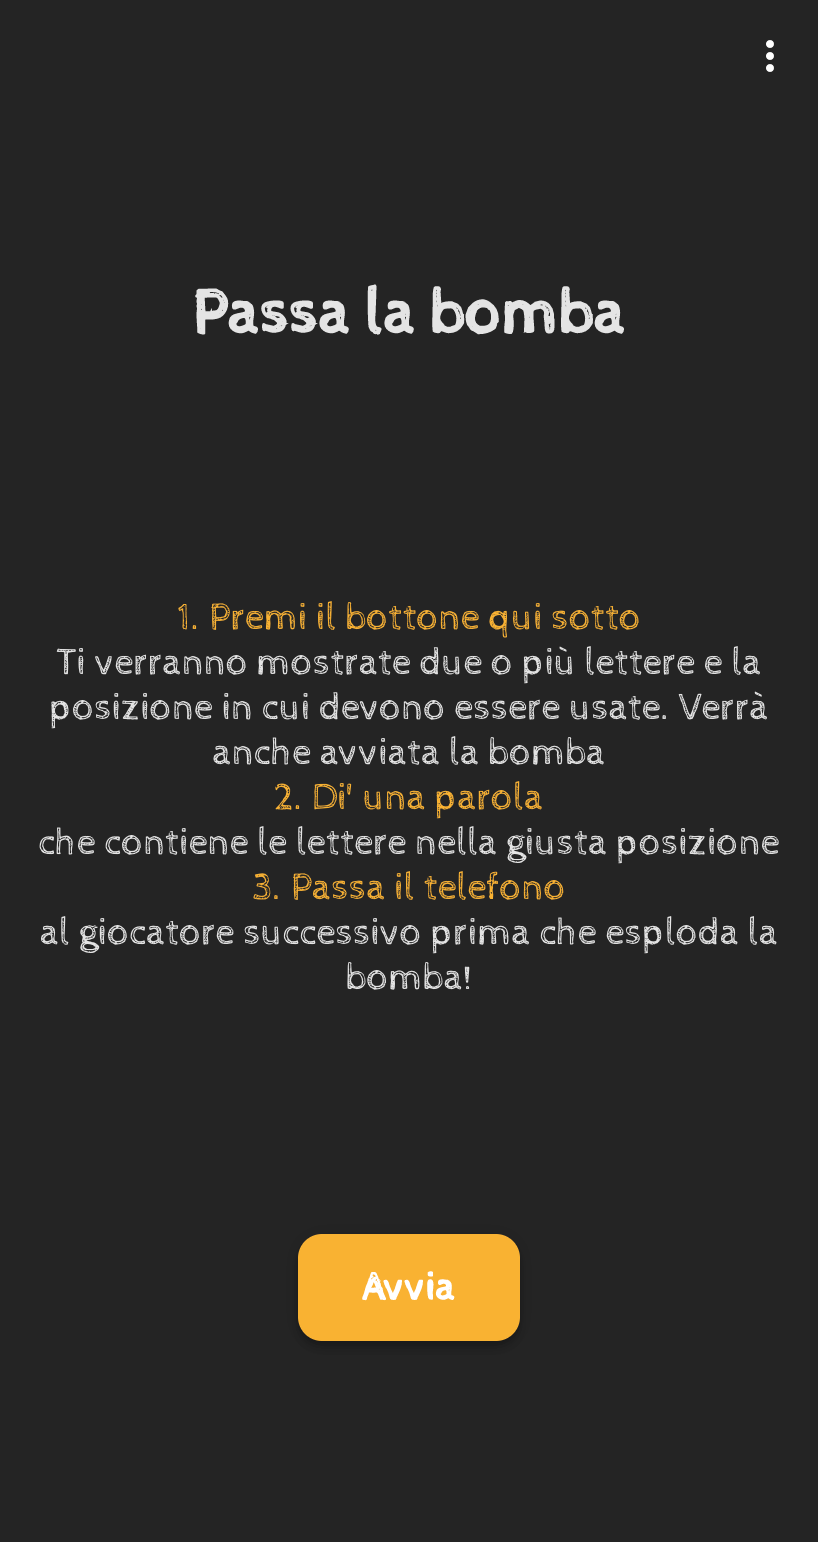
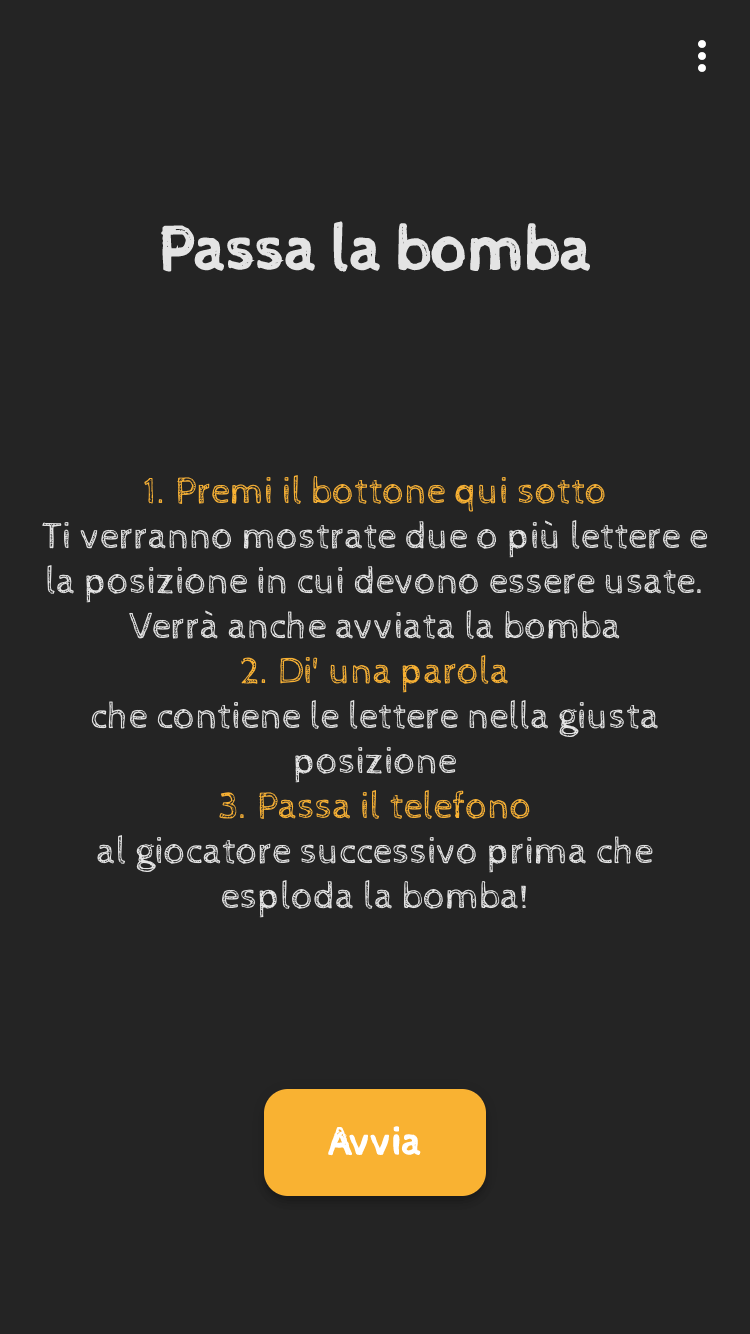
Pwa

diff --git a/service-worker.js b/service-worker.js
@@ -1,2 +1,2 @@
-if(!self.define){let e,s={};const i=(i,n)=>(i=new URL(i+".js",n).href,s[i]||new Promise((s=>{if("document"in self){const e=document.createElement("script");e.src=i,e.onload=s,document.head.appendChild(e)}else e=i,importScripts(i),s()})).then((()=>{let e=s[i];if(!e)throw new Error(`Module ${i} didn’t register its module`);return e})));self.define=(n,r)=>{const o=e||("document"in self?document.currentScript.src:"")||location.href;if(s[o])return;let c={};const t=e=>i(e,o),f={module:{uri:o},exports:c,require:t};s[o]=Promise.all(n.map((e=>f[e]||t(e)))).then((e=>(r(...e),c)))}}define(["./workbox-f3ddde50"],(function(e){"use strict";e.setCacheNameDetails({prefix:"passalabomba"}),self.skipWaiting(),e.precacheAndRoute([{url:"/Explosion.mp3",revision:"f65ecc715621d9208817ef39f89565af"},{url:"/css/app.f9f53539.css",revision:null},{url:"/fonts/CabinSketch-Regular.55e6a9b6.ttf",revision:null},{url:"/img/screenshots/1.png",revision:"60e99d96262ecbe69c8060a0561d663c"},{url:"/img/screenshots/2.png",revision:"c4779840fa1c67c4b35f5fd1e58dafec"},{url:"/img/screenshots/3.png",revision:"0f1288ea43d4f8f484ae089eb39e63d8"},{url:"/index.html",revision:"3ea270b8ea82bfc5004c9f27d4e98739"},{url:"/js/app.0c0d635c.js",revision:null},{url:"/js/chunk-vendors.97f0059d.js",revision:null},{url:"/manifest.json",revision:"e236cd9f8851e821c43fe8adf7ec5289"},{url:"/robots.txt",revision:"b6216d61c03e6ce0c9aea6ca7808f7ca"}],{})}));
+if(!self.define){let e,s={};const i=(i,n)=>(i=new URL(i+".js",n).href,s[i]||new Promise((s=>{if("document"in self){const e=document.createElement("script");e.src=i,e.onload=s,document.head.appendChild(e)}else e=i,importScripts(i),s()})).then((()=>{let e=s[i];if(!e)throw new Error(`Module ${i} didn’t register its module`);return e})));self.define=(n,r)=>{const o=e||("document"in self?document.currentScript.src:"")||location.href;if(s[o])return;let t={};const l=e=>i(e,o),c={module:{uri:o},exports:t,require:l};s[o]=Promise.all(n.map((e=>c[e]||l(e)))).then((e=>(r(...e),t)))}}define(["./workbox-f3ddde50"],(function(e){"use strict";e.setCacheNameDetails({prefix:"passalabomba"}),self.skipWaiting(),e.precacheAndRoute([{url:"/Explosion.mp3",revision:"f65ecc715621d9208817ef39f89565af"},{url:"/css/app.f9f53539.css",revision:null},{url:"/fonts/CabinSketch-Regular.55e6a9b6.ttf",revision:null},{url:"/img/screenshots/1.png",revision:"2101fd021a90e8178591e4b500ddabf5"},{url:"/img/screenshots/2.png",revision:"e7610e76482dfb57a8e9745eb011cb43"},{url:"/img/screenshots/3.png",revision:"4fb28e241f2b86743710b14169a8f8ce"},{url:"/index.html",revision:"3ea270b8ea82bfc5004c9f27d4e98739"},{url:"/js/app.0c0d635c.js",revision:null},{url:"/js/chunk-vendors.97f0059d.js",revision:null},{url:"/manifest.json",revision:"3e954ef195db441a7f4211edc4492a36"},{url:"/robots.txt",revision:"b6216d61c03e6ce0c9aea6ca7808f7ca"}],{})}));
 //# sourceMappingURL=service-worker.js.map
